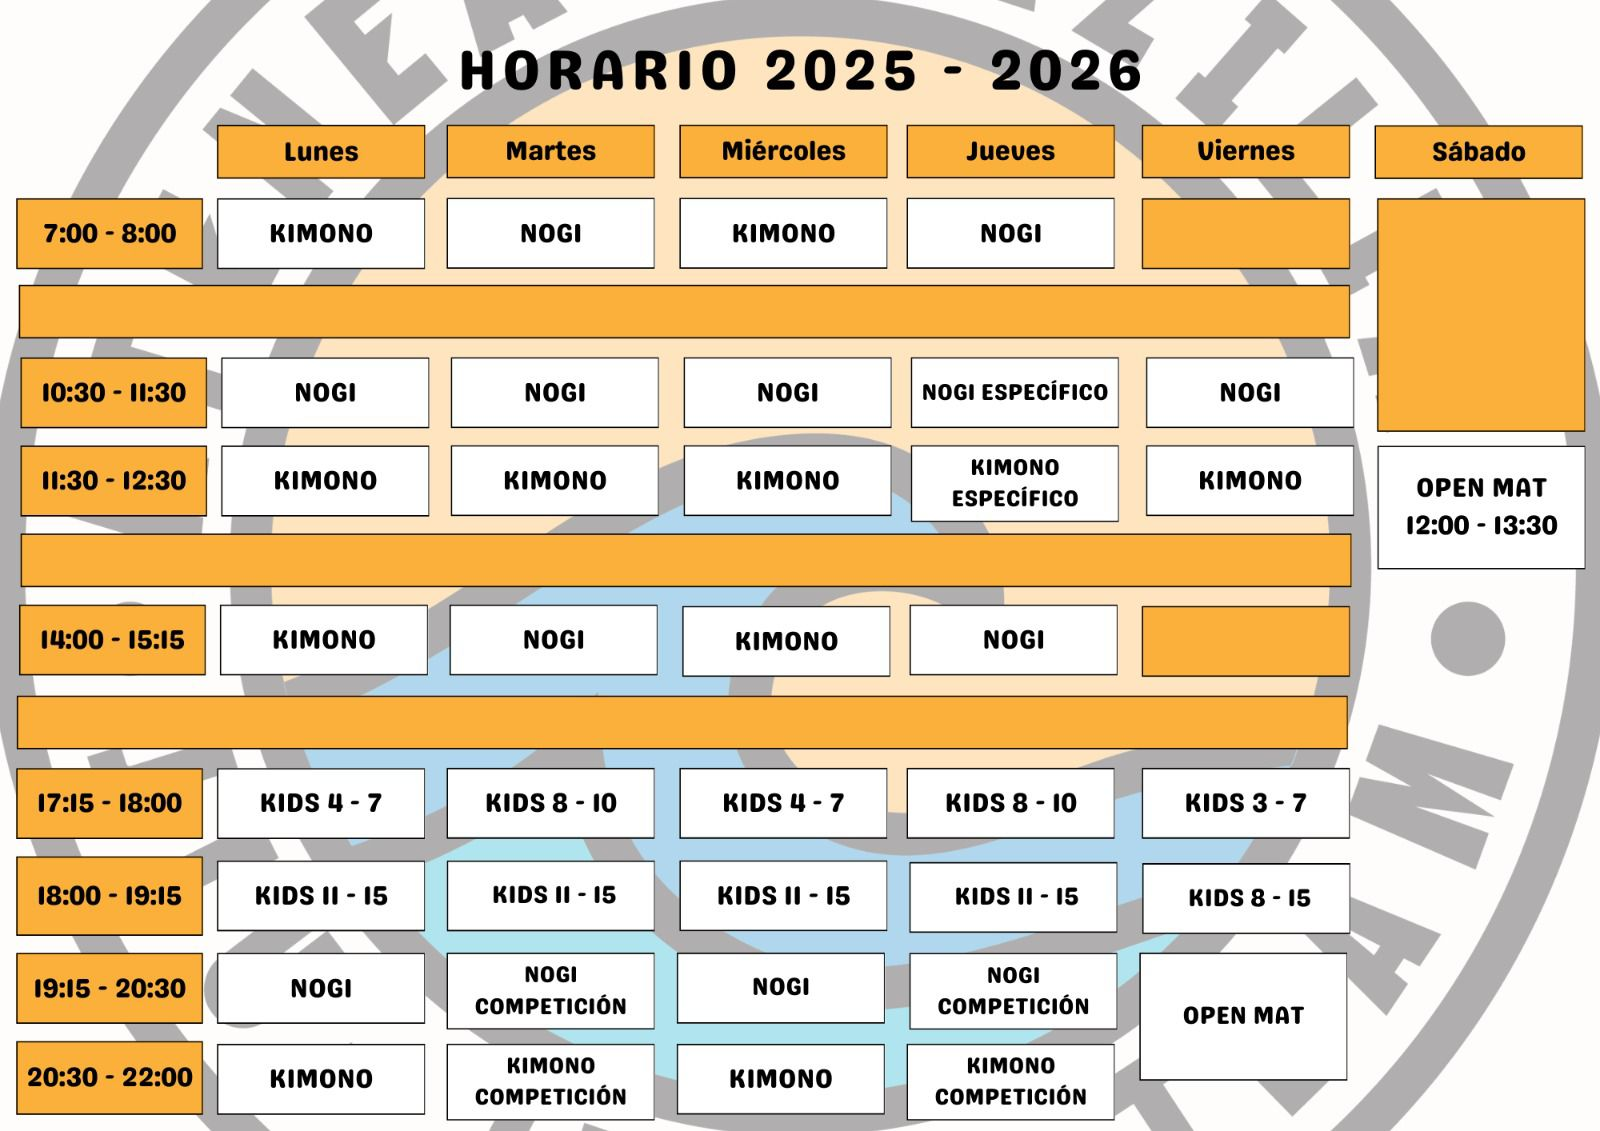
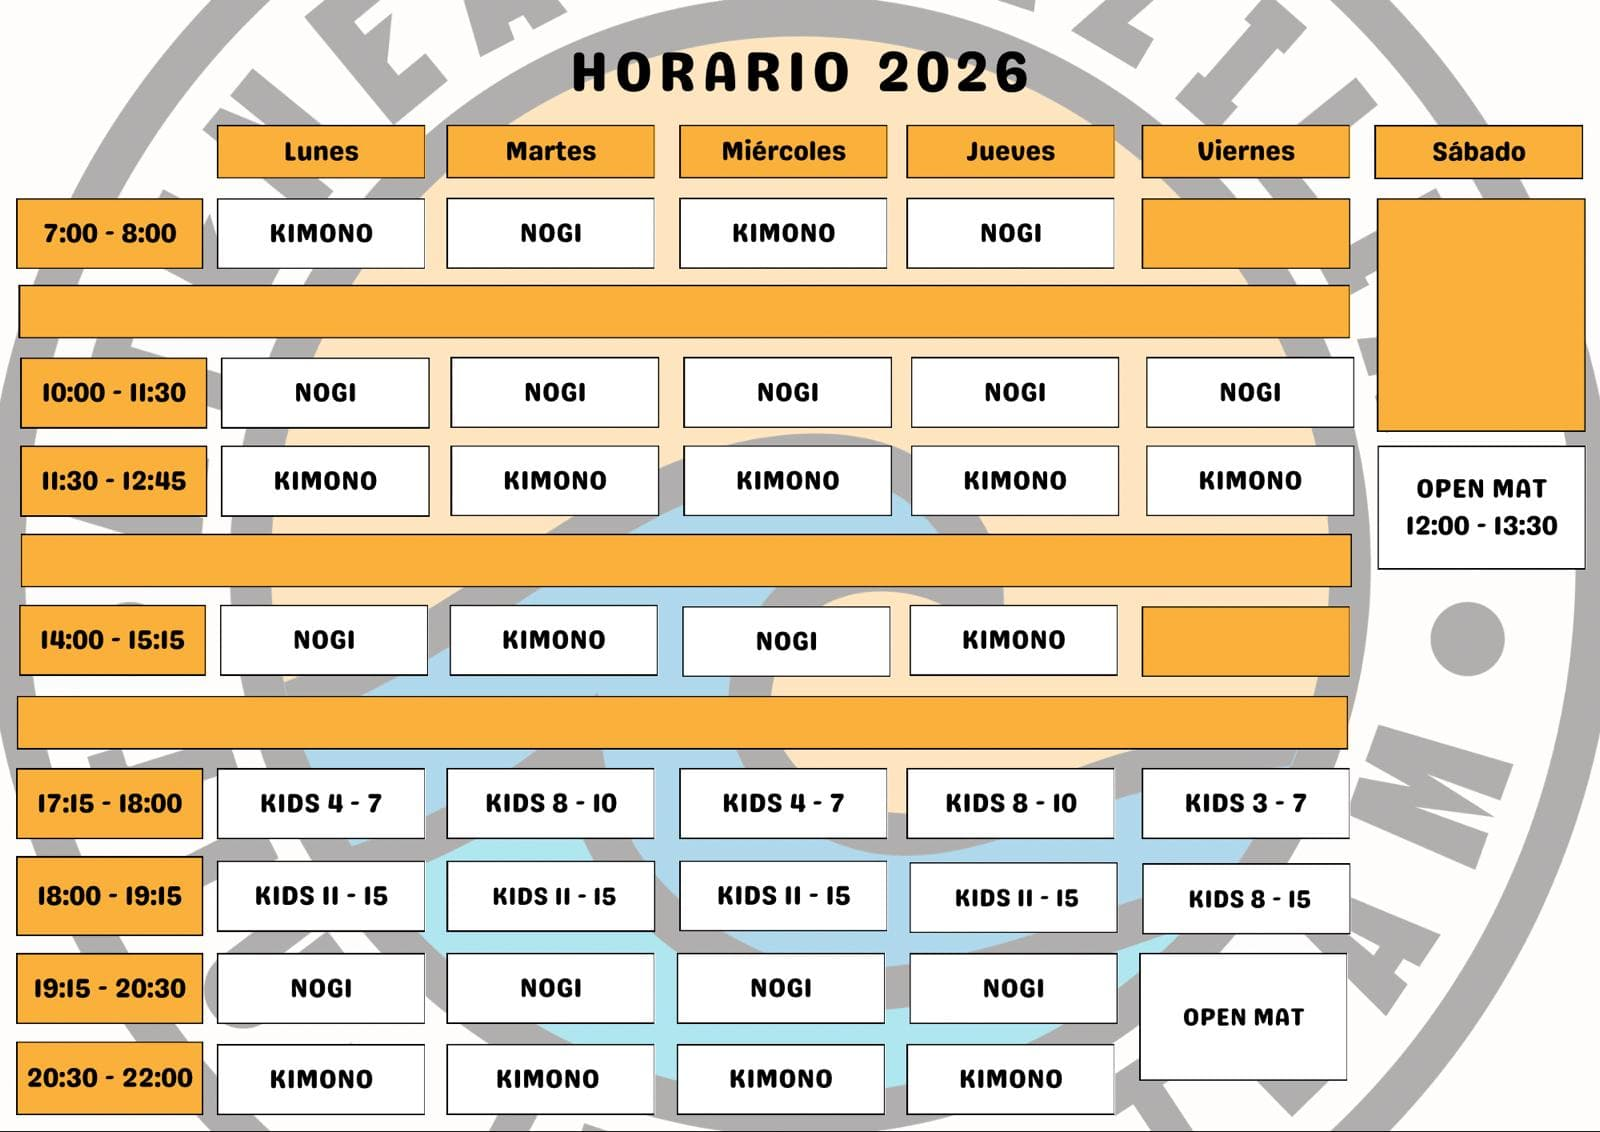
modifica horarios y agrega imagen para descargar

diff --git a/src/data/schedule.ts b/src/data/schedule.ts
@@ -22,7 +22,7 @@ const sameClasses = {
   kimonoMorning: {
     modality: "kimono",
     start: "11:30",
-    end: "12:30",
+    end: "12:45",
   },
   kimonoMid: {
     modality: "kimono",
@@ -98,7 +98,7 @@ export const days = [
       sameClasses.kimono7_8,
       sameClasses.nogiMorning,
       sameClasses.kimonoMorning,
-      sameClasses.kimonoMid,
+      sameClasses.nogiMid,
       sameClasses.kids4_7,
       sameClasses.kids11_15,
       sameClasses.nogiEven,
@@ -111,7 +111,7 @@ export const days = [
       sameClasses.nogi7_8,
       sameClasses.nogiMorning,
       sameClasses.kimonoMorning,
-      sameClasses.nogiMid,
+      sameClasses.kimonoMid,
       sameClasses.kids8_10,
       sameClasses.kids11_15,
       sameClasses.nogiCompetition,
@@ -124,7 +124,7 @@ export const days = [
       sameClasses.kimono7_8,
       sameClasses.nogiMorning,
       sameClasses.kimonoMorning,
-      sameClasses.kimonoMid,
+      sameClasses.nogiMid,
       sameClasses.kids4_7,
       sameClasses.kids11_15,
       sameClasses.nogiEven,
@@ -137,7 +137,7 @@ export const days = [
       sameClasses.nogi7_8,
       sameClasses.nogiMorning,
       sameClasses.kimonoMorning,
-      sameClasses.nogiMid,
+      sameClasses.kimonoMid,
       sameClasses.kids8_10,
       sameClasses.kids11_15,
       sameClasses.nogiCompetition,

diff --git a/src/data/hours.ts b/src/data/hours.ts
@@ -7,10 +7,10 @@ export const giHours: Hours[] = [
   },
   {
     day: "de lunes a viernes",
-    hour: "11:30 - 12:30",
+    hour: "11:30 - 12:45",
   },
   {
-    day: "lunes y miércoles",
+    day: "martes y jueves",
     hour: "14:00 - 15:15",
   },
   {
@@ -29,7 +29,7 @@ export const nogiHours: Hours[] = [
     hour: "10:30 - 11:30",
   },
   {
-    day: "martes y jueves",
+    day: "lunes y miércoles",
     hour: "14:00 - 15:15",
   },
   {
@@ -74,10 +74,10 @@ export const allHours: AllHours = {
     },
     {
       label: "de lunes a viernes",
-      hours: ["11:30 - 12:30"],
+      hours: ["11:30 - 12:45"],
     },
     {
-      label: "lunes y miércoles",
+      label: "martes y jueves",
       hours: ["14:00 - 15:15"],
     },
     {
@@ -96,7 +96,7 @@ export const allHours: AllHours = {
     },
 
     {
-      label: "martes y jueves",
+      label: "lunes y miércoles",
       hours: ["14:00 - 15:15"],
     },
     {
